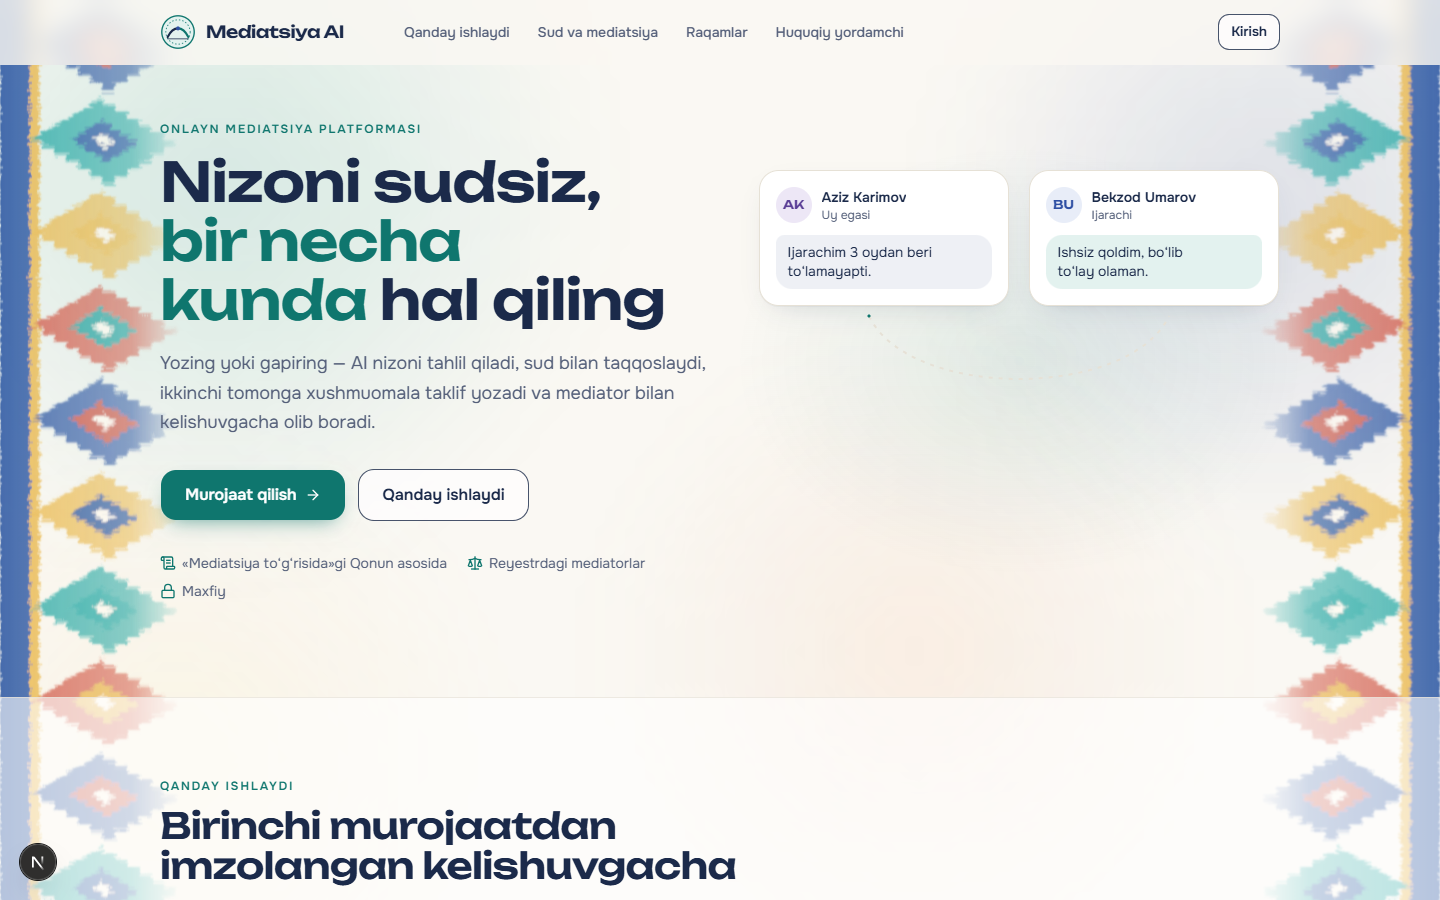
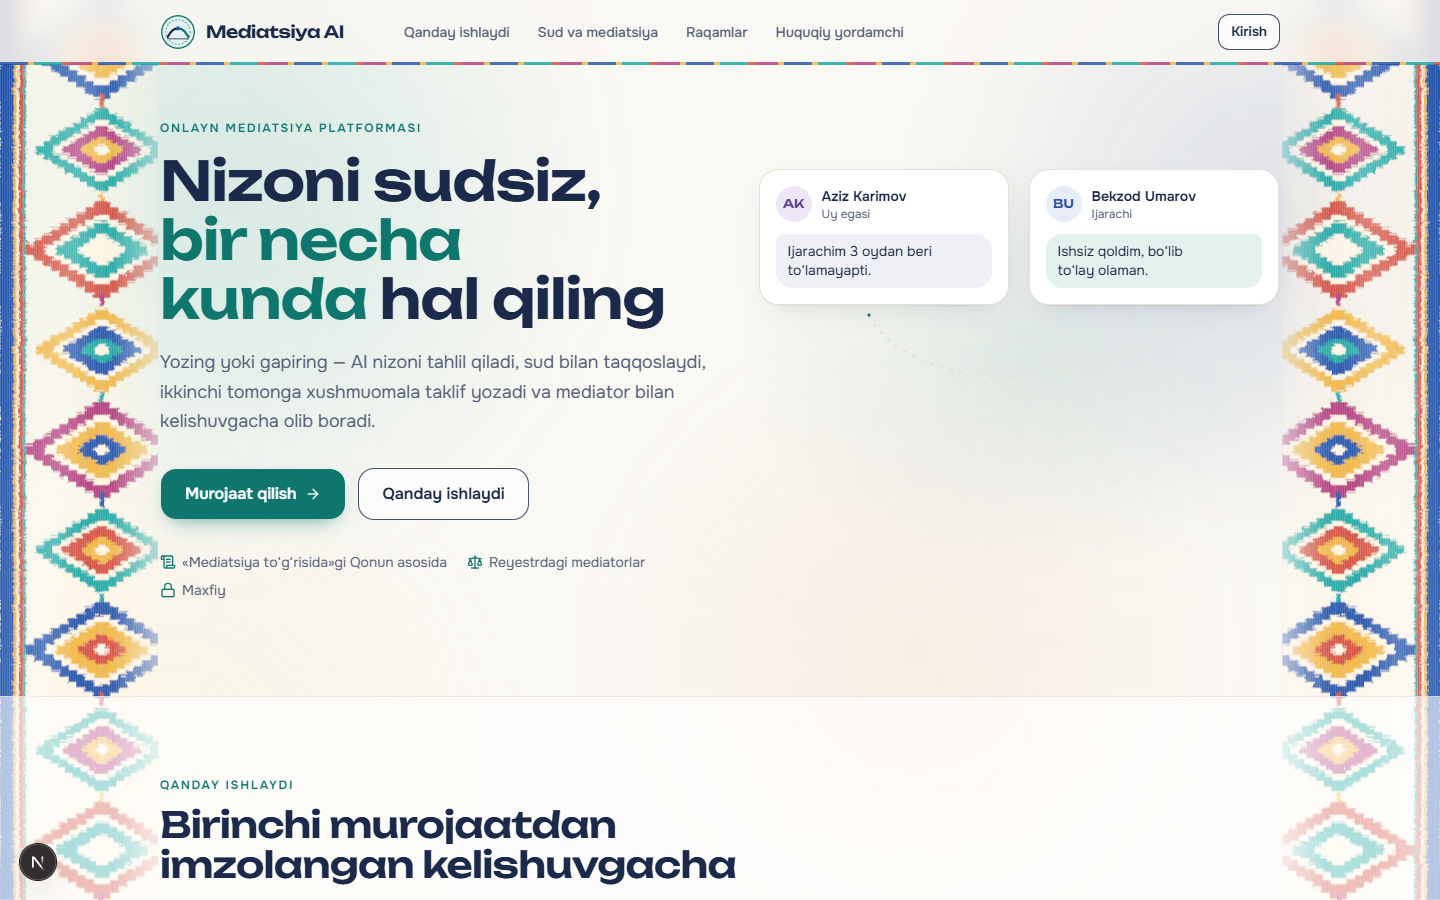
feat(web): richer atlas motifs, silk sheen, atlas rule under headers

diff --git a/web/src/components/brand/atlas.tsx b/web/src/components/brand/atlas.tsx
@@ -1,58 +1,84 @@
 /**
  * "Atlas muvozanati" — Uzbek khan-atlas (abr ikat) bands in Samarkand tile colours, mirrored left and right
- * like the two pans of a balance: two equal sides, a clear middle for the content. The abr "cloud" blur of the
- * ikat edges comes from an SVG displacement filter (warp-direction feathering), so no image files are used.
+ * like the two pans of a balance: two equal sides, a clear middle for the content.
+ *
+ * Craft notes:
+ * - motifs are concentric stepped lozenges (outer colour → cream gap → inner colour → light core), the classic
+ *   atlas "diamond" read at a distance;
+ * - the abr "cloud" edge is an SVG turbulence + displacement filter that feathers along the warp (vertical);
+ * - fine warp threads and a soft silk sheen sit on top, and a multi-stripe selvedge runs along the page edge.
+ * No image files: everything is generated here.
  */
 import { cn } from "cn";
 
-// Samarkand tile + atlas palette: cobalt, turquoise, saffron gold, pomegranate, plus white gaps.
-const PALETTE = ["#1f4e9e", "#14a3a0", "#e9b543", "#cf4f3c", "#1f4e9e", "#e9b543", "#14a3a0", "#cf4f3c"];
-const W = 240; // band width in SVG units
-const ROW = 120; // motif height
+const C = {
+  cobalt: "#1d4fa8",
+  turquoise: "#12a5a1",
+  saffron: "#f0b43c",
+  pomegranate: "#d24a3a",
+  magenta: "#b0367a",
+  cream: "#fff6e4",
+};
+
+// Each motif: [outer, inner, core]
+const SCHEMES: [string, string, string][] = [
+  [C.cobalt, C.saffron, C.pomegranate],
+  [C.turquoise, C.magenta, C.saffron],
+  [C.pomegranate, C.turquoise, C.cream],
+  [C.saffron, C.cobalt, C.turquoise],
+  [C.magenta, C.saffron, C.cobalt],
+  [C.turquoise, C.pomegranate, C.saffron],
+];
+
+const W = 240;
+const ROW = 132;
+const N = 9;
+const HEIGHT = ROW * N;
+const CX = W * 0.56;
 
 function r1(n: number) {
   return Math.round(n * 10) / 10;
 }
 
-/** One ikat motif: a stepped lozenge ("arrow-diamond") with a smaller inner lozenge. */
-function lozenge(cx: number, cy: number, w: number, h: number, steps = 6): string {
-  // stepped edges imitate the warp-dyed staircase look of atlas motifs
+/** Stepped lozenge (staircase edges, like warp-dyed atlas). */
+function lozenge(cx: number, cy: number, w: number, h: number, steps: number): string {
   const pts: string[] = [];
-  for (let i = 0; i <= steps; i++) {
-    const y = cy - h / 2 + (h / 2) * (i / steps);
-    const x = cx + (w / 2) * (i / steps);
-    pts.push(`${r1(x)},${r1(y)}`, `${r1(x)},${r1(y + h / 2 / steps)}`);
-  }
-  for (let i = steps; i >= 0; i--) {
-    const y = cy + h / 2 - (h / 2) * (i / steps);
-    const x = cx + (w / 2) * (i / steps);
-    pts.push(`${r1(x)},${r1(y)}`, `${r1(x - 0.01)},${r1(y + h / 2 / steps)}`);
-  }
-  for (let i = 0; i <= steps; i++) {
-    const y = cy + h / 2 - (h / 2) * (i / steps);
-    const x = cx - (w / 2) * (i / steps);
-    pts.push(`${r1(x)},${r1(y)}`, `${r1(x)},${r1(y - h / 2 / steps)}`);
-  }
-  for (let i = steps; i >= 0; i--) {
-    const y = cy - h / 2 + (h / 2) * (i / steps);
-    const x = cx - (w / 2) * (i / steps);
-    pts.push(`${r1(x)},${r1(y)}`);
-  }
+  const sx = w / 2 / steps;
+  const sy = h / 2 / steps;
+  // top → right → bottom → left, each edge as a staircase
+  for (let i = 0; i < steps; i++) pts.push(`${r1(cx + i * sx)},${r1(cy - h / 2 + i * sy)}`, `${r1(cx + (i + 1) * sx)},${r1(cy - h / 2 + i * sy)}`);
+  for (let i = 0; i < steps; i++) pts.push(`${r1(cx + w / 2 - i * sx)},${r1(cy + i * sy)}`, `${r1(cx + w / 2 - i * sx)},${r1(cy + (i + 1) * sy)}`);
+  for (let i = 0; i < steps; i++) pts.push(`${r1(cx - i * sx)},${r1(cy + h / 2 - i * sy)}`, `${r1(cx - (i + 1) * sx)},${r1(cy + h / 2 - i * sy)}`);
+  for (let i = 0; i < steps; i++) pts.push(`${r1(cx - w / 2 + i * sx)},${r1(cy - i * sy)}`, `${r1(cx - w / 2 + i * sx)},${r1(cy - (i + 1) * sy)}`);
   return pts.join(" ");
 }
 
-const MOTIFS = Array.from({ length: 10 }, (_, i) => {
+const MOTIFS = Array.from({ length: N }, (_, i) => {
   const cy = ROW / 2 + i * ROW;
+  const [outer, inner, core] = SCHEMES[i % SCHEMES.length];
+  const big = i % 2 === 0;
+  const s = big ? 1 : 0.86;
   return {
     i,
-    cy,
-    outer: lozenge(W * 0.55, cy, W * 0.78, ROW * 0.92),
-    inner: lozenge(W * 0.55, cy, W * 0.36, ROW * 0.46, 4),
-    color: PALETTE[i % PALETTE.length],
-    inside: PALETTE[(i + 3) % PALETTE.length],
+    layers: [
+      { d: lozenge(CX, cy, W * 0.84 * s, ROW * 0.96 * s, 9), fill: outer },
+      { d: lozenge(CX, cy, W * 0.62 * s, ROW * 0.7 * s, 7), fill: C.cream },
+      { d: lozenge(CX, cy, W * 0.5 * s, ROW * 0.56 * s, 6), fill: inner },
+      { d: lozenge(CX, cy, W * 0.26 * s, ROW * 0.3 * s, 4), fill: core },
+      { d: lozenge(CX, cy, W * 0.08, ROW * 0.1, 2), fill: C.cream },
+    ],
+    // small "comb" ticks between motifs (taroq)
+    tick: { y: cy + ROW / 2, fill: SCHEMES[(i + 2) % SCHEMES.length][0] },
   };
 });
-const HEIGHT = ROW * MOTIFS.length;
+
+const SELVEDGE = [
+  { x: 0, w: 18, fill: C.cobalt },
+  { x: 18, w: 4, fill: C.saffron },
+  { x: 22, w: 3, fill: C.cream },
+  { x: 25, w: 6, fill: C.pomegranate },
+  { x: 31, w: 3, fill: C.turquoise },
+];
 
 export function AtlasBand({ className, side = "left", id = "atlas" }: { className?: string; side?: "left" | "right"; id?: string }) {
   return (
@@ -63,33 +89,62 @@ export function AtlasBand({ className, side = "left", id = "atlas" }: { classNam
       aria-hidden
     >
       <defs>
-        {/* abr: feather the edges along the warp (vertical threads) */}
-        <filter id={`${id}-abr`} x="-10%" y="-2%" width="120%" height="104%">
-          <feTurbulence type="fractalNoise" baseFrequency="0.012 0.9" numOctaves="2" seed="7" result="n" />
-          <feDisplacementMap in="SourceGraphic" in2="n" scale="14" xChannelSelector="R" yChannelSelector="G" />
-          <feGaussianBlur stdDeviation="0.6 1.4" />
+        <filter id={`${id}-abr`} x="-8%" y="-2%" width="116%" height="104%">
+          <feTurbulence type="fractalNoise" baseFrequency="0.02 0.75" numOctaves="2" seed="11" result="n" />
+          <feDisplacementMap in="SourceGraphic" in2="n" scale="9" xChannelSelector="R" yChannelSelector="G" />
+          <feGaussianBlur stdDeviation="0.35 0.9" />
         </filter>
+        <pattern id={`${id}-warp`} width="3" height="8" patternUnits="userSpaceOnUse">
+          <rect width="1" height="8" fill="#fff" opacity="0.16" />
+        </pattern>
+        <linearGradient id={`${id}-sheen`} x1="0" y1="0" x2="1" y2="0.35">
+          <stop offset="0" stopColor="#fff" stopOpacity="0" />
+          <stop offset="0.45" stopColor="#fff" stopOpacity="0.22" />
+          <stop offset="0.6" stopColor="#fff" stopOpacity="0" />
+        </linearGradient>
         <linearGradient id={`${id}-fade`} x1="0" x2="1">
           <stop offset="0" stopColor="#fff" stopOpacity="1" />
-          <stop offset="0.7" stopColor="#fff" stopOpacity="0.65" />
+          <stop offset="0.62" stopColor="#fff" stopOpacity="0.9" />
+          <stop offset="0.86" stopColor="#fff" stopOpacity="0.35" />
           <stop offset="1" stopColor="#fff" stopOpacity="0" />
         </linearGradient>
         <mask id={`${id}-mask`}>
           <rect width={W} height={HEIGHT} fill={`url(#${id}-fade)`} />
         </mask>
       </defs>
-      <g mask={`url(#${id}-mask)`} filter={`url(#${id}-abr)`}>
-        {/* warp stripes behind the motifs */}
-        <rect x={0} y={0} width={W * 0.16} height={HEIGHT} fill="#1f4e9e" opacity={0.9} />
-        <rect x={W * 0.16} y={0} width={W * 0.05} height={HEIGHT} fill="#e9b543" opacity={0.9} />
-        {MOTIFS.map((m) => (
-          <g key={m.i}>
-            <polygon points={m.outer} fill={m.color} opacity={0.85} />
-            <polygon points={m.inner} fill={m.inside} opacity={0.95} />
-            <polygon points={lozenge(W * 0.55, m.cy, W * 0.12, ROW * 0.16, 2)} fill="#fffaf0" />
-          </g>
-        ))}
+      <g mask={`url(#${id}-mask)`}>
+        <g filter={`url(#${id}-abr)`}>
+          {/* silk ground */}
+          <rect x={34} width={W - 34} height={HEIGHT} fill={C.cream} opacity={0.55} />
+          {MOTIFS.map((m) => (
+            <g key={m.i}>
+              {m.layers.map((l, k) => (
+                <polygon key={k} points={l.d} fill={l.fill} />
+              ))}
+              <rect x={CX - 3} y={m.tick.y - 9} width={6} height={18} fill={m.tick.fill} />
+            </g>
+          ))}
+          {SELVEDGE.map((s) => (
+            <rect key={s.x} x={s.x} width={s.w} height={HEIGHT} fill={s.fill} />
+          ))}
+        </g>
+        <rect width={W} height={HEIGHT} fill={`url(#${id}-warp)`} />
+        <rect width={W} height={HEIGHT} fill={`url(#${id}-sheen)`} />
       </g>
     </svg>
+  );
+}
+
+/** Thin multi-colour atlas line, used under headers as an accent. */
+export function AtlasRule({ className }: { className?: string }) {
+  return (
+    <div
+      aria-hidden
+      className={cn("h-[3px] w-full", className)}
+      style={{
+        background: `repeating-linear-gradient(90deg, ${C.cobalt} 0 28px, ${C.saffron} 28px 34px, ${C.turquoise} 34px 62px, ${C.pomegranate} 62px 70px, ${C.magenta} 70px 92px, ${C.saffron} 92px 98px)`,
+        filter: "blur(0.3px)",
+      }}
+    />
   );
 }

diff --git a/web/src/components/brand/page-backdrop.tsx b/web/src/components/brand/page-backdrop.tsx
@@ -12,7 +12,7 @@ import { GirihPattern } from "./backdrop";
 export type Fon = "a" | "b" | "c" | "d" | "e";
 const DEFAULT: Fon = "e";
 const ALL = "abcde";
-const SELVEDGE = "repeating-linear-gradient(180deg,#1f4e9e 0 48px,#14a3a0 48px 96px,#e9b543 96px 144px,#cf4f3c 144px 192px)";
+const SELVEDGE = "repeating-linear-gradient(180deg,#1d4fa8 0 40px,#f0b43c 40px 48px,#12a5a1 48px 88px,#d24a3a 88px 96px,#b0367a 96px 136px,#f0b43c 136px 144px)";
 const KEY = "ma.fon";
 const noop = () => () => {};
 
@@ -62,8 +62,8 @@ function Layer() {
       {fon === "e" && (
         <>
           <Glows />
-          <AtlasBand id="atlas-l" className="absolute top-0 left-0 hidden h-full w-[min(12vw,210px)] opacity-90 lg:block" />
-          <AtlasBand id="atlas-r" side="right" className="absolute top-0 right-0 hidden h-full w-[min(12vw,210px)] opacity-90 lg:block" />
+          <AtlasBand id="atlas-l" className="absolute top-0 left-0 hidden h-full w-[min(11vw,210px)] lg:block" />
+          <AtlasBand id="atlas-r" side="right" className="absolute top-0 right-0 hidden h-full w-[min(11vw,210px)] lg:block" />
           {/* small screens: the content needs the width, so only thin atlas selvedges remain */}
           <div className="absolute inset-y-0 left-0 w-1.5 lg:hidden" style={{ background: SELVEDGE }} />
           <div className="absolute inset-y-0 right-0 w-1.5 lg:hidden" style={{ background: SELVEDGE }} />

diff --git a/web/src/components/shell/app-header.tsx b/web/src/components/shell/app-header.tsx
@@ -5,6 +5,7 @@ import Link from "next/link";
 import { usePathname, useRouter } from "next/navigation";
 import { useEffect } from "react";
 import { cn } from "cn";
+import { AtlasRule } from "@/components/brand/atlas";
 import { Logo } from "@/components/brand/logo";
 import { Avatar } from "@/components/brand/bits";
 import { Button } from "@/components/ui/button";
@@ -32,7 +33,7 @@ export function AppHeader() {
   const router = useRouter();
   const nav = user ? NAV[user.role] : [];
   return (
-    <header className="no-print sticky top-0 z-30 border-b border-rule/70 bg-paper/85 backdrop-blur-md">
+    <header className="no-print sticky top-0 z-30 bg-paper/85 backdrop-blur-md">
       <div className="mx-auto flex h-16 w-full max-w-6xl items-center gap-4 px-4">
         <Link href="/" aria-label="Bosh sahifa">
           <Logo />
@@ -96,6 +97,7 @@ export function AppHeader() {
           ))}
         </nav>
       )}
+      <AtlasRule className="absolute inset-x-0 -bottom-px opacity-80" />
     </header>
   );
 }

diff --git a/web/src/app/page.tsx b/web/src/app/page.tsx
@@ -21,6 +21,7 @@ import { useState } from "react";
 import { Eyebrow } from "@/components/brand/bits";
 import { Logo } from "@/components/brand/logo";
 import { CompareBars } from "@/components/case/compare-bars";
+import { AtlasRule } from "@/components/brand/atlas";
 import { GirihPattern } from "@/components/brand/backdrop";
 import { HeroBridge } from "@/components/landing/hero-bridge";
 import { Button } from "@/components/ui/button";
@@ -83,7 +84,8 @@ export default function Landing() {
 
   return (
     <div className="flex flex-1 flex-col overflow-x-clip">
-      <header className="sticky top-0 z-30 border-b border-transparent bg-paper/80 backdrop-blur-md">
+      <header className="sticky top-0 z-30 bg-paper/80 backdrop-blur-md">
+        <AtlasRule className="absolute inset-x-0 -bottom-px opacity-80" />
         <div className="mx-auto flex h-16 w-full max-w-6xl items-center gap-6 px-4">
           <Logo />
           <nav className="ml-6 hidden gap-1 text-sm font-medium text-ink-soft md:flex">

diff --git a/docs/pitch/progress.md b/docs/pitch/progress.md
@@ -23,3 +23,4 @@ Taqdimot shu jadval va `shots/` papkasidagi skrinshotlar asosida tayyorlanadi.
 | 2026-11-20 | B15 | Huquqiy yordamchi (/huquq, hisobsiz): "Mediatsiya toʻgʻrisida"gi Qonunning amaldagi matni (41 modda, 2025-yil OʻRQ-1089 oʻzgartishlari bilan) boʻyicha BM25 qidiruv + AI javob, har javobda moddaga havola. Kelishuv PDF ham 29 va 29¹-moddalarga tayanadi. Topildi: 29¹-modda kelishuvga majburiy kuch beradi, 9¹-modda vazirlikka statistika vakolatini beradi | shots/B15-huquq-1440.png |
 | 2026-11-20 | Fon | Fon dizayni (izlanish asosida): rasmiy hujjat va sertifikatlardagi gilyosh (guilloche) chiziqlari — har sahifa tepasida toʻlqin chiziqlar, hero/kirish/muhr lahzalari ortida sekin aylanuvchi rozetka; "Raqamlar" boʻlimida oʻzbek girih (8 qirrali yulduz, dilduz) naqshi. Hammasi koddan SVG, rasm faylsiz | shots/BG-landing-1440.png, shots/BG-raqamlar-1440.png |
 | 2026-11-20 | Fon | "Atlas muvozanati": sahifa chetlarida oʻzbek xon-atlas (abr) naqshi Samarqand koshinlari ranglarida (kobalt, firuza, zaʼfaron, anor qizil), tarozi pallalaridek koʻzgu-simmetrik — adolat va ikki tomon tengligi ramzi; telefonda ingichka atlas jiyaklari | shots/FON-e-1440.png, shots/FON-e-kirish-1440.png |
+| 2026-11-20 | Fon v2 | Atlas naqshi boyitildi: qavatma-qavat zinali romblar (tashqi rang → krem oraliq → ichki rang → yorqin markaz), atlas "taroq" belgilari, koʻp rangli jiyak, ipak tolalari va yengil ipak yaltirashi; har bir sarlavha ostida ingichka rangli atlas chizigʻi | shots/FON-e-1440.png |
